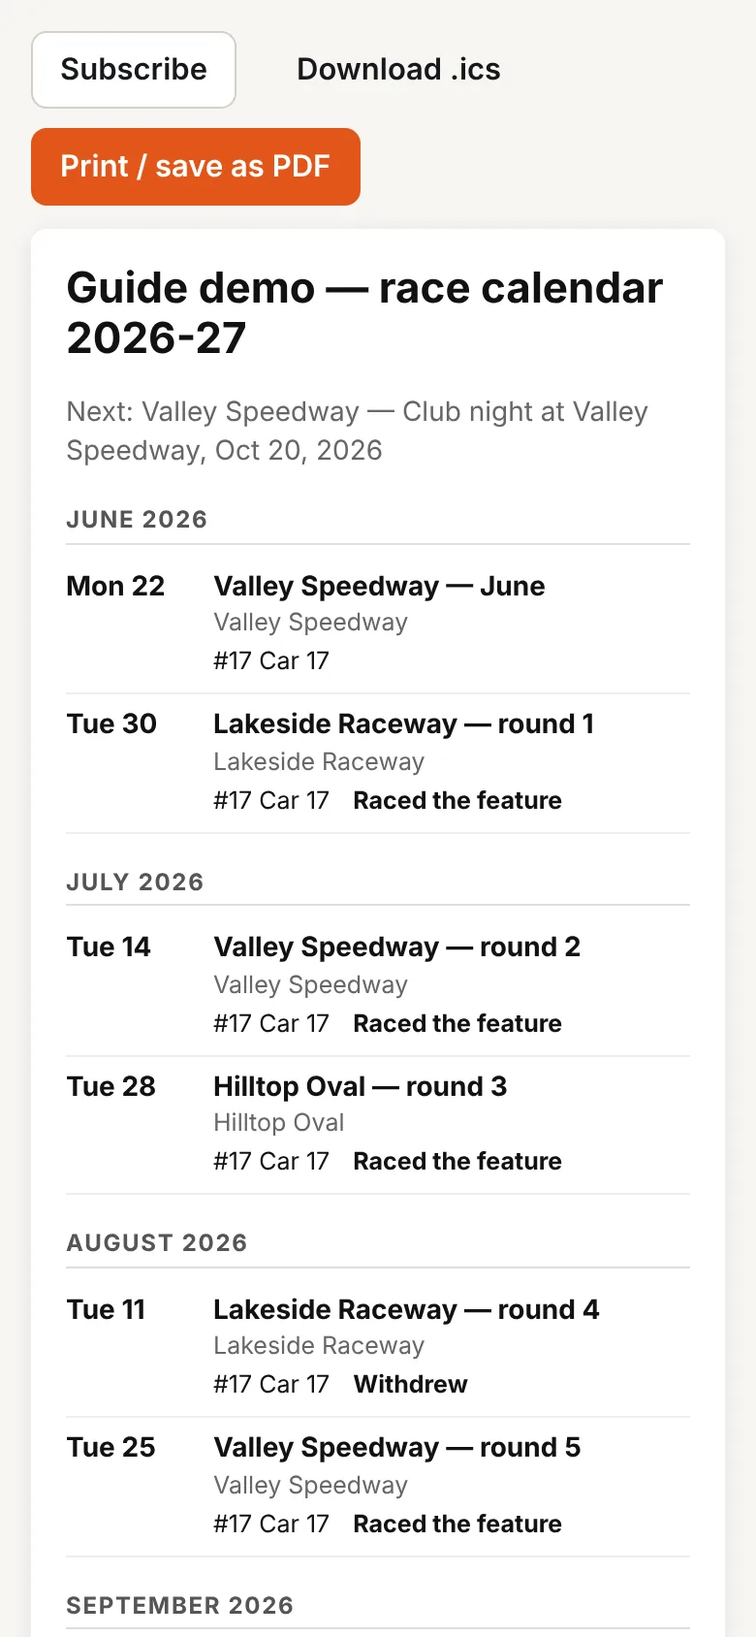
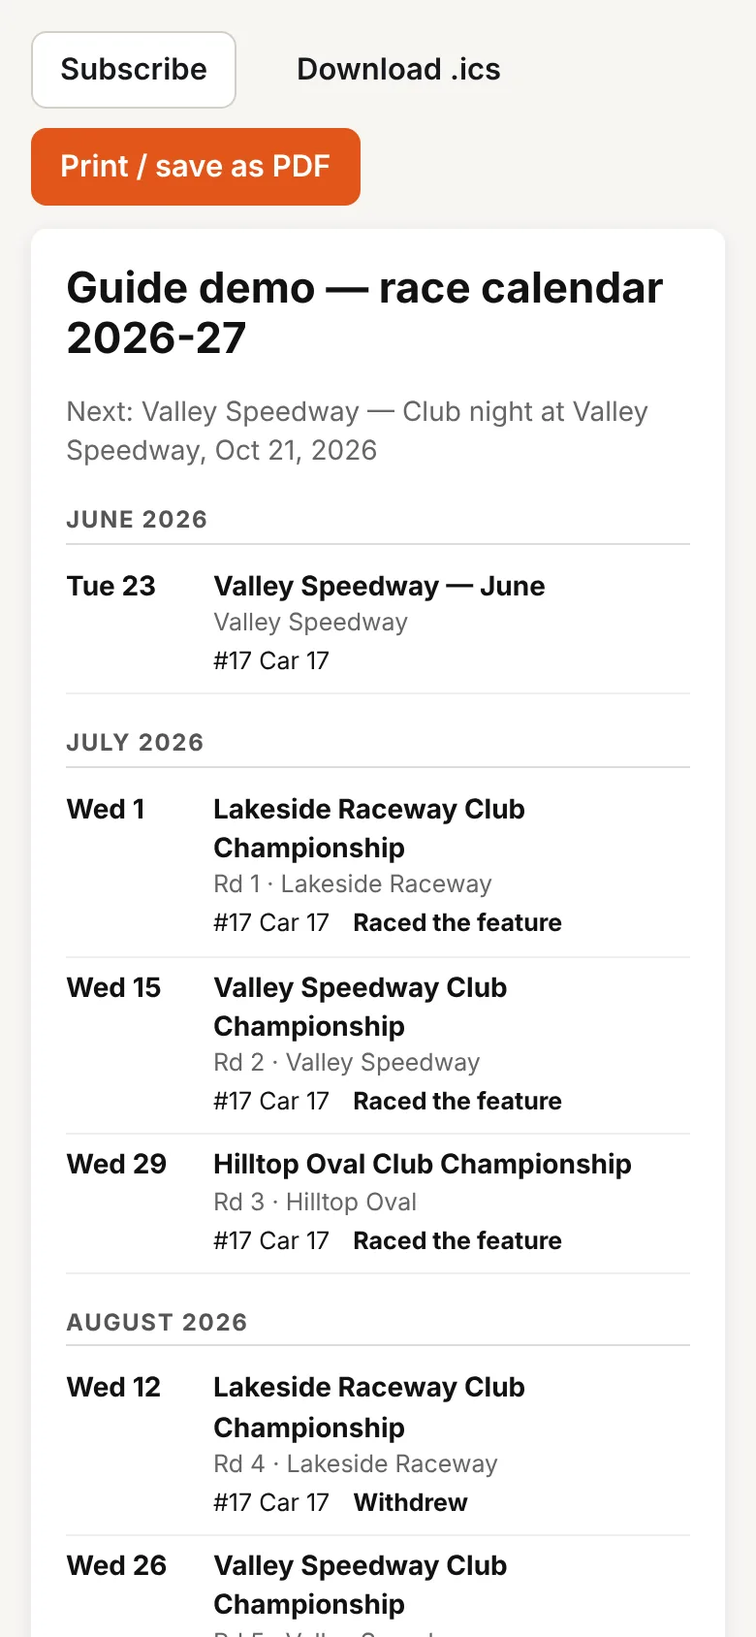
Round and track first on event lists; Save and Cancel at the top of the date form
- New roundAndTrack() helper ("Rd 3 · Valley Speedway"), used on Events, the At the Track hub
  (next event, which now uses the directory track), Our calendar, Shared calendars, Clashes,
  the printed and public calendars, each track's events and the series list
- Edit / suggest a calendar date: Save (or Send for approval) and Cancel moved to the top,
  with the publish switch, note and any error just below
- Guide (events, calendar, shared calendars), What's new, screenshots (demo season has round
  numbers) updated; e2e32 added, e2e26 follows the new order

Claude-Session: https://claude.ai/code/session_019PtC8am1cXDMc5MstyrkE7

diff --git a/web/src/pages/Calendar.jsx b/web/src/pages/Calendar.jsx
@@ -11,7 +11,7 @@ import {
 import { Empty, PageHeader, Pill, Section } from '../components/ui.jsx';
 import { api, apiJob } from '../lib/api.js';
 import { fileToPart } from '../lib/ai.js';
-import { fmtDate, formFor, num, platformList, titleOf, today, useTeamData, v } from '../lib/data.js';
+import { fmtDate, formFor, roundAndTrack, num, platformList, titleOf, today, useTeamData, v } from '../lib/data.js';
 import { useSession } from '../lib/session.jsx';
 import { deleteRecord, saveRecord } from '../lib/store.js';
 import { syncNow } from '../lib/sync.js';
@@ -163,7 +163,7 @@ function CalendarRow({ i, data, past }) {
       </span>
       <span className="grow">
         <Link className="row-title" to={`/events/${i.id}`}>{i.name}</Link>
-        <span className="row-sub">{[i.track, i.series && `${i.series}${i.round ? ` · Rd ${i.round}` : ''}`, i.sanctioning, i.car, i.end_date && i.end_date !== i.date && `to ${fmtDate(i.end_date)}`].filter(Boolean).join(' · ')}</span>
+        <span className="row-sub">{[roundAndTrack(i.round, i.track), i.series, i.sanctioning, i.car, i.end_date && i.end_date !== i.date && `to ${fmtDate(i.end_date)}`].filter(Boolean).join(' · ')}</span>
         {i.major && <span className="pill pill-info">★ {i.major}</span>}
         {winnerText(vals(i.fx)) && <span className="small winner">🏁 {winnerText(vals(i.fx))}</span>}
         {i.cancelled && <span className="pill pill-over">Cancelled</span>}
@@ -478,7 +478,7 @@ export function SharedCalendars({ data, year, sm, label, mode = 'team', admin: a
                     </span>
                     <span className="grow">
                       <span className="row-title">{fv.name}{fv.end_date && fv.end_date !== fv.date ? <span className="muted small"> · to {fmtDate(fv.end_date)}</span> : null}</span>
-                      <span className="row-sub">{[trackName(data, fv), series && `${vals(series).name}${fv.round ? ` · Rd ${fv.round}` : ''}`, sanctioningOf(fv, vals(series)), classes.join(', '), fv.start_time].filter(Boolean).join(' · ')}</span>
+                      <span className="row-sub">{[roundAndTrack(fv.round, trackName(data, fv)), series && vals(series).name, sanctioningOf(fv, vals(series)), classes.join(', '), fv.start_time].filter(Boolean).join(' · ')}</span>
                       {winnerText(fv) && <span className="small winner">🏁 {winnerText(fv)}{fv.entries ? ` · ${fv.entries} entries` : ''}</span>}
                       <span className="fx-flags">
                         {fv.major && <Pill level="info">{majorLabel(fv)}</Pill>}
@@ -565,7 +565,7 @@ function Clashes({ data, dates, ourClasses, team }) {
               <span className="date-block"><b>{Number(r.date.slice(8))}</b><small>{new Date(`${r.date}T00:00:00`).toLocaleString(undefined, { month: 'short' })} {dow(r.date)}</small></span>
               <span className="grow">
                 <span className="row-title">{r.list.length} meetings · {r.reg}{r.shared.length > 0 && <span className="pill pill-over">Same class: {r.shared.join(', ')}</span>}</span>
-                {r.list.map((f) => <span key={f.id} className="row-sub">{vals(f).name} — {trackName(data, vals(f))}{classesOf(f).length ? ` · ${classesOf(f).join(', ')}` : ''}</span>)}
+                {r.list.map((f) => <span key={f.id} className="row-sub">{vals(f).name} — {roundAndTrack(vals(f).round, trackName(data, vals(f)))}{classesOf(f).length ? ` · ${classesOf(f).join(', ')}` : ''}</span>)}
               </span>
             </div>
           ))}
@@ -658,20 +658,22 @@ function FixtureEditor({ data, rec, initial = {}, onSave = null, onDone, inline 
   };
   return (
     <div className={`card fx-editor${inline ? ' inline-editor' : ''}`} data-testid="fx-editor">
-      <h3>{rec ? (admin ? 'Edit calendar date' : 'Suggest a change') : admin ? 'Add a calendar date' : 'Suggest a calendar date'}</h3>
+      <div className="fx-editor-head">
+        <h3>{rec ? (admin ? 'Edit calendar date' : 'Suggest a change') : admin ? 'Add a calendar date' : 'Suggest a calendar date'}</h3>
+        <div className="row-actions">
+          <button type="button" className="btn primary" onClick={save}>{admin && publish ? 'Save' : 'Send for approval'}</button>
+          <button type="button" className="btn ghost" onClick={() => onDone(false)}>Cancel</button>
+        </div>
+      </div>
+      {err && <div className="notice error">{err}</div>}
+      {admin && !onSave && <label className="check-row"><input type="checkbox" checked={publish} onChange={(e) => setPublish(e.target.checked)} /> Publish to every team now (platform admin)</label>}
+      {!(admin && publish) && <label className="field"><span className="label">Note for the admin (optional)</span><input value={note} onChange={(e) => setNote(e.target.value)} placeholder="e.g. Source: series website, posted 3 Oct" /></label>}
       <FormRenderer form={form} values={values} onChange={(k, x) => setValues((s) => ({ ...s, [k]: x }))} data={data} recordType="fixture" errors={errors}
         hideKeys={(values.end_date || values.date || '9') > today() || !admin ? ['entries', 'results', 'results_note'] : []} />
       {!admin && !rec && values.series && data.byId[values.series] && !isGlobal(data.byId[values.series]) && (
         <div className="notice info small">{vals(data.byId[values.series]).name} is your team’s own series, so it goes to the admin with this date — once approved it’s shared and your events use it.</div>
       )}
       {dupes.length > 0 && <div className="notice small">Already listed: {dupes.map((d) => `${vals(d).name} (${fmtDate(vals(d).date)})`).join(', ')}. Change that one instead if it’s wrong.</div>}
-      {err && <div className="notice error">{err}</div>}
-      {!(admin && publish) && <label className="field"><span className="label">Note for the admin (optional)</span><input value={note} onChange={(e) => setNote(e.target.value)} placeholder="e.g. Source: series website, posted 3 Oct" /></label>}
-      {admin && !onSave && <label className="check-row"><input type="checkbox" checked={publish} onChange={(e) => setPublish(e.target.checked)} /> Publish to every team now (platform admin)</label>}
-      <div className="row-actions">
-        <button type="button" className="btn primary" onClick={save}>{admin && publish ? 'Save' : 'Send for approval'}</button>
-        <button type="button" className="btn ghost" onClick={() => onDone(false)}>Cancel</button>
-      </div>
     </div>
   );
 }
@@ -1050,7 +1052,7 @@ export function CalendarSheet({ title, sub, items, showCar = true, showResult = 
                 <td>
                   <b>{i.name}</b>{i.tentative && <em className="muted"> (tentative)</em>}{i.cancelled && <b className="cs-cancel"> CANCELLED</b>}
                   {i.major && <div className="small cs-major">★ {i.major}</div>}
-                  <div className="muted small">{[i.track, i.location && i.location !== i.track ? i.location : '', i.series && `${i.series}${i.round ? ` — Rd ${i.round}` : ''}`, i.sanctioning].filter(Boolean).join(' · ')}</div>
+                  <div className="muted small">{[roundAndTrack(i.round, i.track), i.location && i.location !== i.track ? i.location : '', i.series, i.sanctioning].filter(Boolean).join(' · ')}</div>
                   {((showCar && i.car) || (showResult && i.result)) && (
                     <div className="small cs-extra">{showCar && i.car && <span>{i.car}</span>}{showResult && i.result && <b>{i.result}</b>}</div>
                   )}

diff --git a/web/src/pages/Areas.jsx b/web/src/pages/Areas.jsx
@@ -5,7 +5,7 @@ import { RequestNotice } from '../components/SharedRequests.jsx';
 import { AREA_ICON, AREA_PATH, Icon, I, useNav } from '../components/Layout.jsx';
 import { LifeBar, PageHeader, Pill, Section } from '../components/ui.jsx';
 import { assetLife, scheduleStatus, setupsByAsset } from '../lib/compute.js';
-import { fmtDate, levelLabel, titleOf, today, useTeamData, v } from '../lib/data.js';
+import { eventTrack, fmtDate, levelLabel, roundAndTrack, titleOf, today, useTeamData, v } from '../lib/data.js';
 import { useSession } from '../lib/session.jsx';
 import { scheduleText } from './Maintenance.jsx';
 import { teamType } from '@shared/shop.js';
@@ -68,7 +68,7 @@ function useSummary() {
 function areaStat(key, s) {
   if (!s) return '';
   switch (key) {
-    case 'track': return s.nextEvents[0] ? `Next: ${v(s.nextEvents[0], 'name')} · ${fmtDate(v(s.nextEvents[0], 'date'))}` : `${s.data.list('setup').length} setup sheets`;
+    case 'track': return s.nextEvents[0] ? `Next: ${[v(s.nextEvents[0], 'name'), roundAndTrack(v(s.nextEvents[0], 'round'), eventTrack(s.nextEvents[0], s.data)), fmtDate(v(s.nextEvents[0], 'date'))].filter(Boolean).join(' · ')}` : `${s.data.list('setup').length} setup sheets`;
     case 'workshop': return `${s.due.length} service${s.due.length === 1 ? '' : 's'} due · ${s.attention.length} asset${s.attention.length === 1 ? '' : 's'} to check`;
     case 'engines': return `${s.engines.length} engine${s.engines.length === 1 ? '' : 's'} · ${s.builds[0] ? `last build ${fmtDate(v(s.builds[0], 'date'))}` : 'no builds yet'}`;
     case 'team': return `${s.data.list('car').length} car${s.data.list('car').length === 1 ? '' : 's'} · ${s.data.list('review').length} reviews`;
@@ -198,12 +198,12 @@ export function TrackHub() {
             {ev ? (
               <Link to={`/events/${ev.id}`} className="next-event">
                 <span className="ne-date"><b>{new Date(`${v(ev, 'date')}T00:00:00`).getDate()}</b><small>{new Date(`${v(ev, 'date')}T00:00:00`).toLocaleString(undefined, { month: 'short' })}</small></span>
-                <span className="grow"><span className="row-title">{v(ev, 'name')}</span><span className="row-sub">{v(ev, 'track')}</span></span>
+                <span className="grow"><span className="row-title">{v(ev, 'name')}</span><span className="row-sub">{roundAndTrack(v(ev, 'round'), eventTrack(ev, data))}</span></span>
                 <span className="btn small">Open sheets</span>
               </Link>
             ) : <p className="muted">Nothing scheduled.</p>}
             {s.nextEvents.slice(1, 4).map((e) => (
-              <Link key={e.id} to={`/events/${e.id}`} className="list-row"><span className="grow">{v(e, 'name')}<span className="row-sub">{v(e, 'track')}</span></span><span className="row-meta">{fmtDate(v(e, 'date'))}</span></Link>
+              <Link key={e.id} to={`/events/${e.id}`} className="list-row"><span className="grow">{v(e, 'name')}<span className="row-sub">{roundAndTrack(v(e, 'round'), eventTrack(e, data))}</span></span><span className="row-meta">{fmtDate(v(e, 'date'))}</span></Link>
             ))}
           </Section>
         )}

diff --git a/web/src/pages/Events.jsx b/web/src/pages/Events.jsx
@@ -2,7 +2,7 @@ import { useEffect, useMemo, useState } from 'react';
 import { Link, useNavigate, useParams, useSearchParams } from 'react-router-dom';
 import ContactLinks from '../components/ContactLinks.jsx';
 import { Empty, PageHeader, Section } from '../components/ui.jsx';
-import { eventTrack, fmtDate, formFor, num, titleOf, today, useTeamData, v } from '../lib/data.js';
+import { eventTrack, fmtDate, roundAndTrack, formFor, num, titleOf, today, useTeamData, v } from '../lib/data.js';
 import { useSession } from '../lib/session.jsx';
 import { saveRecord } from '../lib/store.js';
 import { orderForNew, orderSessions } from '../lib/sessions.js';
@@ -32,7 +32,7 @@ export function EventRow({ e, data, n }) {
       </span>
       <span className="grow">
         <span className="row-title">{v(e, 'name')}{eventDays(e) > 1 ? <span className="pill pill-info days-pill">{eventDays(e)} days</span> : null}</span>
-        <span className="row-sub">{[data.byId[v(e, 'car')] && titleOf(data.byId[v(e, 'car')]), eventTrack(e, data), s && `${titleOf(s)}${v(e, 'round') ? ` · Rd ${v(e, 'round')}` : ''}`, !s && v(e, 'event_type')].filter(Boolean).join(' · ')}</span>
+        <span className="row-sub">{[roundAndTrack(v(e, 'round'), eventTrack(e, data)), s && titleOf(s), !s && v(e, 'event_type'), data.byId[v(e, 'car')] && titleOf(data.byId[v(e, 'car')])].filter(Boolean).join(' · ')}</span>
       </span>
       <span className="row-meta">{n ? `${n} sheet${n > 1 ? 's' : ''}` : ''}</span>
     </Link>

diff --git a/web/src/pages/Series.jsx b/web/src/pages/Series.jsx
@@ -1,7 +1,7 @@
 import { Link, useParams } from 'react-router-dom';
 import ContactLinks from '../components/ContactLinks.jsx';
 import { Empty, PageHeader, Pill, Section } from '../components/ui.jsx';
-import { eventTrack, fmtDate, num, titleOf, today, useTeamData, v } from '../lib/data.js';
+import { eventTrack, fmtDate, roundAndTrack, num, titleOf, today, useTeamData, v } from '../lib/data.js';
 import { useSession } from '../lib/session.jsx';
 import { dateRange, eventDays } from './Events.jsx';
 import { useState } from 'react';
@@ -41,7 +41,7 @@ export function SeriesList() {
                 <Link key={s.id} to={`/series/${s.id}`} className="list-row">
                   <span className="grow">
                     <span className="row-title">{v(s, 'name')}</span>
-                    <span className="row-sub">{[v(s, 'class'), v(s, 'sanctioning'), `${rounds.length} round${rounds.length === 1 ? '' : 's'}`, next && `next: ${v(next, 'name')} ${fmtDate(v(next, 'date'))}`].filter(Boolean).join(' · ')}</span>
+                    <span className="row-sub">{[v(s, 'class'), v(s, 'sanctioning'), `${rounds.length} round${rounds.length === 1 ? '' : 's'}`, next && `next: ${[v(next, 'name'), roundAndTrack(v(next, 'round'), eventTrack(next, data)), fmtDate(v(next, 'date'))].filter(Boolean).join(' · ')}`].filter(Boolean).join(' · ')}</span>
                   </span>
                 </Link>
               );

diff --git a/web/src/pages/Tracks.jsx b/web/src/pages/Tracks.jsx
@@ -267,7 +267,7 @@ export function TrackDetail() {
         {events.length === 0 ? <p className="muted">No events recorded at this track yet.</p> : (
           <div className="list">{events.map((e) => (
             <Link key={e.id} to={`/events/${e.id}`} className="list-row">
-              <span className="grow"><span className="row-title">{v(e, 'name')}</span><span className="row-sub">{dateRange(e)}{data.byId[v(e, 'series')] ? ` · ${titleOf(data.byId[v(e, 'series')])}` : ''}</span></span>
+              <span className="grow"><span className="row-title">{v(e, 'name')}</span><span className="row-sub">{[dateRange(e), v(e, 'round') && `Rd ${v(e, 'round')}`, data.byId[v(e, 'series')] && titleOf(data.byId[v(e, 'series')])].filter(Boolean).join(' · ')}</span></span>
               <span className="row-meta">{setups.filter((s) => v(s, 'event') === e.id).length} sheets</span>
             </Link>
           ))}</div>

diff --git a/web/src/lib/data.js b/web/src/lib/data.js
@@ -71,6 +71,9 @@ export const num = (x) => {
 };
 
 /** Track display name for an event: linked track, else the typed name. */
+/** “Rd 3 · Valley Speedway”: the round (if any) and the track, as event lists show them. */
+export const roundAndTrack = (round, track) => [round ? `Rd ${round}` : '', track].filter(Boolean).join(' · ');
+
 export const eventTrack = (ev, data) => (ev ? (data?.byId[ev.data?.values?.venue] ? titleOf(data.byId[ev.data.values.venue]) : ev.data?.values?.track || '') : '');
 
 export function titleOf(rec, data) {

diff --git a/web/src/styles.css b/web/src/styles.css
@@ -1492,3 +1492,6 @@ a.sc-label { color: inherit; font-weight: 600; }
 .link-btn { background: none; border: 0; padding: 2px 0; color: var(--accent); font-weight: 600; cursor: pointer; text-align: left; }
 .link-btn.small { font-size: 12px; }
 .link-btn:disabled { opacity: .5; }
+.fx-editor-head { display: flex; align-items: center; justify-content: space-between; gap: 10px; flex-wrap: wrap; margin-bottom: 8px; }
+.fx-editor-head h3 { margin: 0; }
+.fx-editor-head .row-actions { margin: 0; }

diff --git a/tests/e2e/e2e32.py b/tests/e2e/e2e32.py
@@ -1,0 +1,80 @@
+# Event lists show the round and track first; the calendar date form has Save and Cancel at the top.
+import json, sys, os, uuid, urllib.request, urllib.error
+from datetime import datetime, timezone, date, timedelta
+from playwright.sync_api import sync_playwright, expect
+B = os.environ.get('RACEOPS_URL', 'http://localhost:8080').rstrip('/')
+OUT = sys.argv[1]; os.makedirs(OUT, exist_ok=True)
+errors = []
+
+def call(path, token=None, method='GET', body=None):
+    req = urllib.request.Request(B + '/api' + path, method=method, data=json.dumps(body).encode() if body is not None else None,
+                                 headers={'content-type': 'application/json', **({'authorization': f'Bearer {token}'} if token else {})})
+    try:
+        r = urllib.request.urlopen(req); return r.status, json.loads(r.read() or b'{}')
+    except urllib.error.HTTPError as e:
+        return e.code, json.loads(e.read() or b'{}')
+now = datetime.now(timezone.utc).isoformat()
+rec = lambda type, values, **x: {'id': str(uuid.uuid4()), 'type': type, 'data': {'values': values, **x}, 'client_updated_at': now}
+d = lambda n: (date.today() + timedelta(days=n)).isoformat()
+def push(tok, tid, *recs):
+    r = call(f'/t/{tid}/sync', tok, 'POST', {'changes': list(recs)})[1]['results']
+    assert all(x['status'] == 'applied' for x in r), r
+
+o = call('/auth/login', method='POST', body={'email': 'owner@test.com', 'password': 'password1'})[1]; OT = o['token']
+st, t = call('/admin/tenants', OT, 'POST', {'name': 'Rounds Display', 'plan': 'pro'}); TID = t['id']
+call(f'/admin/tenants/{TID}/join', OT, 'POST', {})
+o = call('/auth/login', method='POST', body={'email': 'owner@test.com', 'password': 'password1'})[1]; OT = o['token']
+assert any(m['tenant_id'] == TID for m in o['memberships']), 'admin joined the team'
+recs = call(f'/t/{TID}/sync?since=0', OT)[1]['records']
+form = lambda target: next(r['id'] for r in recs if r['type'] == 'form' and r['data']['target'] == target)
+TF, SF, FF = form('track'), form('series'), form('fixture')
+track = rec('track', {'name': 'Rounds Park Speedway', 'region': 'QLD', 'country': 'Australia', 'status': 'Active'}, form_id=TF)
+ser = rec('series', {'name': 'Rounds Display Series', 'season': str(date.today().year)}, form_id=SF)
+car = rec('car', {'name': 'Display car', 'number': '32'})
+ev = rec('event', {'name': 'Spring night', 'date': d(10), 'venue': track['id'], 'series': ser['id'], 'round': '4', 'car': car['id'], 'intent': 'Planned'})
+push(OT, TID, track, ser, car, ev)
+gfx = rec('fixture', {'name': 'Display Rd 2', 'date': d(20), 'venue': track['id'], 'round': '2', 'status': 'Scheduled'}, form_id=FF, scope='global')
+push(OT, TID, gfx)
+
+with sync_playwright() as pw:
+    br = pw.chromium.launch()
+    page = br.new_page(viewport={'width': 1366, 'height': 900})
+    page.on('pageerror', lambda e: errors.append(str(e)))
+    page.on('console', lambda m: m.type == 'error' and 'Failed to load resource' not in m.text and errors.append(m.text))
+    s = {'token': OT, 'user': o['user'], 'memberships': o['memberships'], 'platform': o.get('platform'), 'tenantId': TID}
+    page.goto(B); page.evaluate(f"localStorage.setItem('raceops.session', {json.dumps(json.dumps(s))})")
+    page.goto(B); expect(page.locator('text=Synced')).to_be_visible(timeout=30000)
+
+    # ---- event lists: round and track first
+    page.goto(B + '/events')
+    row = page.locator('a.list-row:has-text("Spring night")')
+    expect(row.locator('.row-sub')).to_contain_text('Rd 4 · Rounds Park Speedway · Rounds Display Series')
+    page.goto(B + '/track')
+    expect(page.locator('.next-event')).to_contain_text('Rd 4 · Rounds Park Speedway')
+    page.goto(B + '/calendar')
+    expect(page.locator('.list-row:has-text("Spring night") .row-sub')).to_contain_text('Rd 4 · Rounds Park Speedway')
+    page.goto(f"{B}/tracks/{track['id']}")
+    expect(page.locator('.list-row:has-text("Spring night")')).to_contain_text('Rd 4')
+    shot = lambda n: page.screenshot(path=f'{OUT}/{n}.png', full_page=True)
+
+    # ---- the calendar date form: Save and Cancel above the fields
+    page.goto(B + '/calendar?tab=shared&show=all')
+    r = page.locator('.list-row:has-text("Display Rd 2")')
+    expect(r.locator('.row-sub')).to_contain_text('Rd 2 · Rounds Park Speedway')
+    r.locator('button:has-text("Edit")').click()
+    ed = page.locator('[data-testid="fx-editor"]')
+    head = ed.locator('.fx-editor-head')
+    expect(head).to_contain_text('Edit calendar date')
+    expect(head.locator('button:has-text("Save")')).to_be_visible()
+    expect(head.locator('button:has-text("Cancel")')).to_be_visible()
+    save_y = head.locator('button:has-text("Save")').bounding_box()['y']
+    first_field_y = ed.locator('.field').first.bounding_box()['y']
+    assert save_y < first_field_y, (save_y, first_field_y)
+    shot('32-01-editor')
+    ed.locator('input#f-name').fill('Display Rd 2 (moved)')
+    head.locator('button:has-text("Save")').click()
+    expect(page.locator('.list-row:has-text("Display Rd 2 (moved)")')).to_be_visible(timeout=15000)
+    br.close()
+
+assert not errors, errors
+print('E2E32 OK')

diff --git a/tools/guide_shots.py b/tools/guide_shots.py
@@ -92,7 +92,7 @@ feat = rec('setup', S(event=ev['id'], session='Feature', order=20, planned_laps=
 season = []
 for n in range(8):
     tr = ['Lakeside Raceway', 'Valley Speedway', 'Hilltop Oval'][n % 3]
-    e = rec('event', {'name': f'{tr} — round {n + 1}', 'date': d(112 - n * 14), 'track': tr, 'car': car['id'], 'intent': 'Planned',
+    e = rec('event', {'name': f'{tr} Club Championship', 'round': str(n + 1), 'date': d(112 - n * 14), 'track': tr, 'car': car['id'], 'intent': 'Planned',
                       **({'outcome': 'Withdrew during the event', 'withdraw_reason': 'Engine'} if n == 3 else {'outcome': 'Raced the feature'})})
     season.append(e)
     for k, (sess, order) in enumerate([('Heat 1', 10), ('Feature', 20)]):

diff --git a/tests/e2e/e2e26.py b/tests/e2e/e2e26.py
@@ -120,7 +120,7 @@ with sync_playwright() as pw:
     shot(page, '26-03-quick-edit')
     qe.locator('button:has-text("Save")').click()
     expect(row.locator('[data-testid="quick-edit"]')).to_have_count(0)
-    expect(row).to_contain_text('Initial Winter Series · Rd 3')
+    expect(row).to_contain_text('Rd 3 · '); expect(row).to_contain_text('Initial Winter Series')
     expect(row).to_contain_text('Speedway Australia')
     expect(row).to_contain_text('★ Winter Warm-up Classic')
     # pulling the major event brings its name and sanctioning body

diff --git a/docs/guide/whats-new.md b/docs/guide/whats-new.md
@@ -12,6 +12,7 @@ Every RaceOps update adds a line here, and the articles it links to are updated 
 
 ## October 2026
 
+- **Round and track on every event list, and buttons at the top of the date form.** Events on **Events**, **At the Track**, **Calendar**, series and track pages now show the round and track first, e.g. *Rd 3 · Valley Speedway*. When you edit or suggest a calendar date, **Save** (or **Send for approval**) and **Cancel** are at the top of the form. [Events and sessions](/help/events-sessions), [Calendar](/help/calendar)
 - **Bars, tyres, wheels and wings from inventory on the setup sheet.** Each corner's **Bars**, **Tires** and **Wheels** list the items meant for that corner and car first, or choose **Enter manually…** to type what's on the car and **+ Save to inventory** to keep it. The **Wing** section now has a **Top wing** and a **Front wing**, each picked from your wings, and the front wing has its own **wicker**. Wings in Assets can be set to the **Top** or **Front** position. [Shocks, bars, tyres, wheels and wings on the setup sheet](/help/shocks-on-setup)
 - **Feedback and the roadmap.** Report a problem or ask for an improvement or new feature from **Feedback & roadmap** in the sidebar, follow what happens under **My submissions**, and vote on the **Roadmap**. Platform admins capture their own ideas, review everything into **Now**, **Next** or **Later**, and send work to Claude as a GitHub issue or a ready-made brief. [Feedback and the roadmap](/help/feedback), [Feedback and ideas](/help/feedback-admin)
 - **Fixed: missing records after an access change.** When your role or your team's licence changed, the app could show **Synced** with some records missing until you pressed **Re-download all data**. It now always downloads everything again. [Install and work offline](/help/offline-sync)

diff --git a/docs/guide/calendar-suggestions.md b/docs/guide/calendar-suggestions.md
@@ -27,7 +27,7 @@ Choose a view:
 ### Add or change dates
 
 - **Add a date**: fill in the event name, date (and end date for a multi-day meeting), track, series and round, and the classes running. Tick **Major event** for a title or classic and give it its **Major event name**, and set the **Sanctioning body** if it differs from the series'. Adding from a series, track or the Major events view fills that in for you.
-- **Edit**: change a date. The form opens under that date. Every team's entry that came from it changes too.
+- **Edit**: change a date. The form opens under that date, with **Save** and **Cancel** at the top, so you don't have to scroll past the whole form. Every team's entry that came from it changes too.
 - **Delete**: removes the date from the shared calendar. Teams that already added it keep their own entry. To keep it visible but show it's off, edit it and set **Status** to **Cancelled** instead.
 - **New series** (in the Series view): adds a series every team can use. Name and season are required.
 - **Import a calendar**: read the dates from a link, iCal feed, PDF, photo, screenshot or pasted text, check them, then save. The AI reading counts against the team you're signed in to, so that team needs the AI add-on (iCal doesn't).
